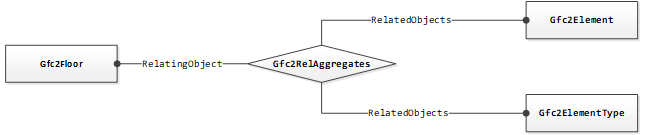
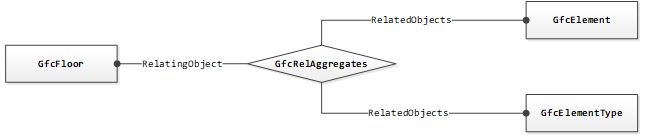
更新网站信息

diff --git a/doc/html/usage.html b/doc/html/usage.html
@@ -20,16 +20,16 @@
 
 
 <h1 class="annex">一般用法</h1>
-<p>4.1 GFC文件中应有且仅有一个工程项目（<a href="schema\Gfc2Project.html">Gfc2Project</a>）实例。</p>
-<p>4.2 工程项目（<a href="schema\Gfc2Project.html">Gfc2Project</a>）实例应聚合多个空间结构实体（<a href="schema\Gfc2SpatialStructureEntity.html">Gfc2SpatialStructureEntity</a>），一般为建筑（<a href="schema\Gfc2Building.html">Gfc2Building</a>）实例。</p>
+<p>4.1 GFC文件中应有且仅有一个工程项目（<a href="schema\GfcProject.html">GfcProject</a>）实例。</p>
+<p>4.2 工程项目（<a href="schema\GfcProject.html">GfcProject</a>）实例应聚合多个空间结构实体（<a href="schema\GfcSpatialStructureElement.html">GfcSpatialStructureElement</a>），一般为建筑（<a href="schema\GfcBuilding.html">GfcBuilding</a>）实例。</p>
 <div align="center"><img src="img/usage_project_building.png"/></div>
-<p>4.3 建筑（<a href="schema\Gfc2Building.html">Gfc2Building</a>）实例应聚合多个楼层（<a href="schema\Gfc2Floor.html">Gfc2Floor</a>）实例。</p>
+<p>4.3 建筑（<a href="schema\GfcBuilding.html">GfcBuilding</a>）实例应聚合多个楼层（<a href="schema\GfcFloor.html">GfcFloor</a>）实例。</p>
 <div align="center"><img src="img/usage_building_floor.png"/></div>
-<p>4.4 楼层（<a href="schema\Gfc2Floor.html">Gfc2Floor</a>）实例应聚合多个构件（<a href="schema\Gfc2Element.html">Gfc2Element</a>）实例；同时可聚合多个构件类型（<a href="schema\Gfc2ElementType.html">Gfc2ElementType</a>）实例。</p>
+<p>4.4 楼层（<a href="schema\GfcFloor.html">GfcFloor</a>）实例应聚合多个构件（<a href="schema\GfcElement.html">GfcElement</a>）实例；同时可聚合多个构件类型（<a href="schema\GfcElementType.html">GfcElementType</a>）实例。</p>
 <div align="center"><img src="img/usage_floor_entity.png"/></div>
-<p>4.5 构件（<a href="schema\Gfc2Element.html">Gfc2Element</a>）实例、构件类型（<a href="schema\Gfc2ElementType.html">Gfc2ElementType</a>）实例可关联多个属性集（<a href="schema\Gfc2PropertySet.html">Gfc2PropertySet</a>）实例。</p>
+<p>4.5 构件（<a href="schema\GfcElement.html">GfcElement</a>）实例、构件类型（<a href="schema\GfcElementType.html">GfcElementType</a>）实例可关联多个属性集（<a href="schema\GfcPropertySet.html">GfcPropertySet</a>）实例。</p>
 <div align="center"><img src="img/usage_entity_propertyset.png"/></div>
-<p>4.6 构件类型（<a href="schema\Gfc2ElementType.html">Gfc2ElementType</a>）可定义多个同类型构件（<a href="schema\Gfc2Element.html">Gfc2Element</a>）实例。</p>
+<p>4.6 构件类型（<a href="schema\GfcElementType.html">GfcElementType</a>）可定义多个同类型构件（<a href="schema\GfcElement.html">GfcElement</a>）实例。</p>
 <div align="center"><img src="img/usage_elementtype_element.png"/></div>
  </body>
 </html>

diff --git a/doc/html/cover.html b/doc/html/cover.html
@@ -7,7 +7,7 @@
     <link rel="stylesheet" type="text/css" href="ifc-styles.css">
     <link rel="stylesheet" type="text/css" href="details-shim.css">
     <script type="text/javascript" src="details-shim.js"></script>
-    <title>IFC4x1 Final</title>
+    <title>GFC</title>
     <style type="text/css">
         body {
             counter-reset: index1 0 index2 0 index3 0 index4 -1 index5 0;
@@ -31,10 +31,10 @@
                     <p style="text-align:left;">
                         <span
                             style="font-family:Arial, Verdana, Tahoma, sans-serif; font-size:x-large; color:#FFFFFF; ">
-                            广联达算量数据交换标准</span><br><br><br>
+                            数字建筑数据交换标准</span><br><br><br>
                         <span
                             style="font-family:Arial, Verdana, Tahoma, sans-serif; font-size:xx-large; color:#FFFFFF; ">
-                            <b>版本 3.0.0.0</b><br>
+                            <b>版本 3.1.1.0</b><br>
                         </span>
                     </p>
                 </td>
@@ -43,8 +43,8 @@
                 <td style="vertical-align: top;">
                     <p style="text-align:left;">
                         <span style="font-family:Arial, Verdana, Tahoma, sans-serif; font-size:small; ">
-                            &#169; Glodon 1998-2020 - 本文件版权归广联达科技股份有限公司所有<br>
-                            通过使用GFC3标准，您同意以下<a href="copyright.html" target="info"><b>版权声明</b></a></span>
+                            &#169; Glodon 1998-2022 - 本文件版权归广联达科技股份有限公司所有<br>
+                            通过使用GFC标准，您同意以下<a href="copyright.html" target="info"><b>版权声明</b></a></span>
                     </p>
                 </td>
             </tr>
@@ -54,7 +54,7 @@
     <noscript>
         <div style="position:absolute; top:10px; width:100%">
             <p style="text-align:center;font-weight:bold;color:white;background-color:darkred;padding:5px;">
-                浏览具有全部功能的GFC3规范需要在浏览器设置中启用javascript</p>
+                浏览具有全部功能的GFC规范需要在浏览器设置中启用javascript</p>
         </div>
     </noscript>
 </body>

diff --git a/doc/html/copyright.html b/doc/html/copyright.html
@@ -13,7 +13,7 @@
 <body class="white">
     <div class="not-numbered">
         <h2 class="std">
-            <strong>广联达算量数据交换标准</strong>
+            <strong>数字建筑数据交换标准</strong>
         </h2>
         <p class="std">
             &nbsp;
@@ -27,7 +27,7 @@
                     &nbsp;&nbsp;
                 </td>
                 <td>
-                    <strong>Copyright &copy; 1998-2019 Glodon Company Limited. All rights reserved.</strong><br>
+                    <strong>Copyright &copy; 1998-2022 Glodon Company Limited. All rights reserved.</strong><br>
                     <br>
                     广联达科技股份有限公司提供的任何技术文档均为广联达科技股份有限公司的版权作品，归广联达科技股份有限公司所有。未经广联达科技股份有限公司事先书面同意，可将其影印、用于软件开发或翻译成其他计算机语言，但须提供完整的归属。如果对技术规范进行了更改，则需要事先书面同意。<br>
                     <br>
@@ -52,7 +52,7 @@
                     &nbsp;&nbsp;
                 </td>
                 <td>
-                    部分<strong>GFC3</strong>文件包含基于其他国际标准的材料。该材料的状态在整个文件中都有明确说明，不受广联达科技股份有限公司的版权保护。<br>
+                    部分<strong>GFC</strong>文件包含基于其他国际标准的材料。该材料的状态在整个文件中都有明确说明，不受广联达科技股份有限公司的版权保护。<br>
                     <br>
                 </td>
             </tr>

diff --git a/doc/html/introduce.html b/doc/html/introduce.html
@@ -20,14 +20,14 @@
 
 
       <h1 class="std">简介</h1>
-<p>GFC全称为：Glodon Foundation Classes，是广联达算量数据交换标准。用于算量数据在建筑物建设或设施管理项目中的各种参与者之间交换和共享。</p>
+<p>GFC全称为：General Foundation Classes，是数字建筑数据交换标准。用于BIM数据在建筑物建设或设施管理项目中的各种参与者之间交换和共享。</p>
 
 <p>本文件包含GFC标准的规范，该规范由EXPRESS语言来描述。</p>
 
-<p>GFC规范包括术语、概念和数据规范项，这些术语、概念和数据规范项源于建筑预算行业。术语和概念使用纯英语单词，数据规范中的数据项遵循命名约定：</p>
+<p>GFC规范包括术语、概念和数据规范项，这些术语、概念和数据规范项源于建筑行业。术语和概念使用纯英语单词，数据规范中的数据项遵循命名约定：</p>
 
 <ul>
- <li>类型、实体、规则和函数的数据项名称以前缀“Gfc2”开头，并在驼峰式命名约定中继续使用英语单词（无下划线，大写单词中的第一个字母）；</li>
+ <li>类型、实体、规则和函数的数据项名称以前缀“Gfc”开头，并在驼峰式命名约定中继续使用英语单词（无下划线，大写单词中的第一个字母）；</li>
  <li>实体内的属性名遵循驼峰式命名约定，不带前缀；</li>
  <li>枚举项应为大写，英语单词间用下划线分隔。</li>
 </ul>

diff --git a/doc/html/index.html b/doc/html/index.html
@@ -4,7 +4,7 @@
 <head>
     <meta content="text/html; charset=utf-8" http-equiv="content-type">
     <link rel="STYLESHEET" href="./ifc-styles.css">
-    <title>GFC2标准文档</title>
+    <title>GFC标准文档</title>
 </head>
 <frameset cols="20%,*">
     <frame src="contents.html" name="index" frameborder="0">
@@ -12,9 +12,9 @@
             <noframes>
                 <body>
                     <p>
-                        广联达算量数据交换标准<br>
-                        广联达科技股份有限公司 版权所有1998-2019<br>
-                        使用GFC2文档需要一个能够显示帧的浏览器。
+                        数字建筑数据交换标准<br>
+                        广联达科技股份有限公司 版权所有1998-2022<br>
+                        使用GFC文档需要一个能够显示帧的浏览器。
                     </P>
                 </body>
             </noframes>

diff --git a/doc/html/changelog.html b/doc/html/changelog.html
@@ -13,6 +13,10 @@
 
     <style type="text/css">
       body { counter-reset: index1 -6 index2 0 index3 0 index4 -1 index5 0; }
+      td {
+        padding-left: 10px;
+        padding-right: 10px;
+      }
     </style>
   </head>
 
@@ -24,7 +28,8 @@
 
 <table class="gridtable">
 <tr><th>日期</th><th>描述</th></tr>
-<tr><td>2019-03-10</td><td>.</td>
+<tr><td>2022-05-15</td><td>GFC3.1发布</td>
+<tr><td>2022-03-30</td><td>GFC3.0发布</td>
 </table>
   </body>
 </html>

diff --git a/doc/html/terms.html b/doc/html/terms.html
@@ -32,7 +32,7 @@
 <tr><td class="abbreviatedterm" id="guid">GUID</td>
 <td class="abbreviatedterm">全局唯一标志符</td></tr>
 <tr><td class="abbreviatedterm" id="gfc">GFC</td>
-<td class="abbreviatedterm">Glodon Foundation Classes</td></tr>
+<td class="abbreviatedterm">General Foundation Classes</td></tr>
 </table>
 <p>
 </p>
